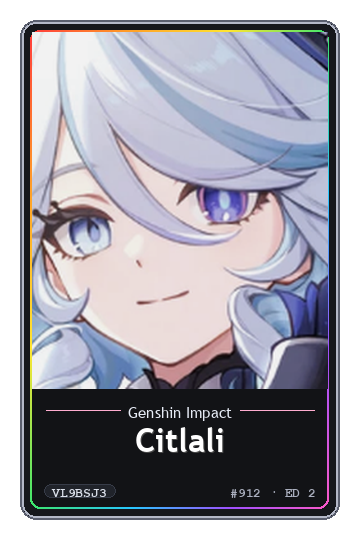
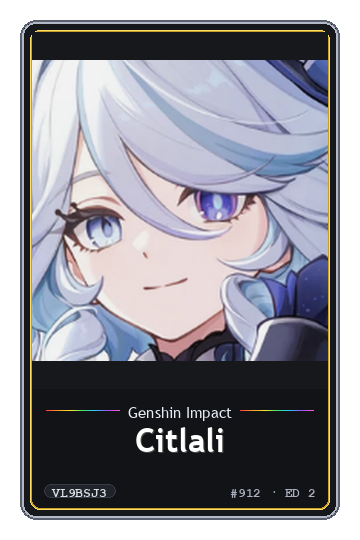
Apply rarity color accents (rainbow for Mythic) specifically to series divider lines

diff --git a/utils/renderer.py b/utils/renderer.py
@@ -89,19 +89,24 @@ async def fetch_image(session, url):
     return img
 
 def fit_artwork_image(img: Image.Image, target_w: int, target_h: int) -> Image.Image:
-    """Scales artwork image proportionally top-aligned so it fills the viewport edge-to-edge without distortion."""
+    """Scales character image proportionally without zooming in or cropping out character details."""
     orig_w, orig_h = img.size
     if orig_w == 0 or orig_h == 0:
         return img.resize((target_w, target_h), Image.Resampling.LANCZOS)
     
-    scale = max(target_w / orig_w, target_h / orig_h)
-    new_w = max(target_w, int(orig_w * scale))
-    new_h = max(target_h, int(orig_h * scale))
+    scale_w = target_w / orig_w
+    scale_h = target_h / orig_h
+    scale = min(scale_w, scale_h)
+    
+    new_w = max(1, int(orig_w * scale))
+    new_h = max(1, int(orig_h * scale))
     resized = img.resize((new_w, new_h), Image.Resampling.LANCZOS)
     
-    left = (new_w - target_w) // 2
-    top = 0
-    return resized.crop((left, top, left + target_w, top + target_h))
+    canvas = Image.new("RGBA", (target_w, target_h), (22, 24, 28, 255))
+    left = (target_w - new_w) // 2
+    top = (target_h - new_h) // 2
+    canvas.paste(resized, (left, top))
+    return canvas
 
 def _round_corners(img: Image.Image, radius: int) -> Image.Image:
     """Apply rounded corners to an RGBA image using an alpha mask."""
@@ -112,15 +117,12 @@ def _round_corners(img: Image.Image, radius: int) -> Image.Image:
     out.putalpha(mask)
     return out
 
-def _draw_rainbow_border(target_img: Image.Image, box: tuple, radius: int = 10, width: int = 2):
-    """Draws a vibrant linear rainbow gradient rounded border."""
+def _draw_rainbow_line(target_img: Image.Image, box: tuple):
+    """Draws a smooth rainbow gradient horizontal line."""
     bx1, by1, bx2, by2 = box
     w = max(1, bx2 - bx1)
     h = max(1, by2 - by1)
     
-    if w <= width * 2 or h <= width * 2:
-        return
-
     rainbow = Image.new("RGBA", (w, h))
     rb_draw = ImageDraw.Draw(rainbow)
     
@@ -135,44 +137,26 @@ def _draw_rainbow_border(target_img: Image.Image, box: tuple, radius: int = 10, 
     ]
     num_c = len(colors)
     
-    for row in range(h):
-        for col in range(w):
-            t = (row / max(1, h) + col / max(1, w)) / 2.0
-            idx = t * (num_c - 1)
-            i1 = int(idx) % num_c
-            i2 = min(i1 + 1, num_c - 1)
-            frac = idx - int(idx)
+    for col in range(w):
+        t = col / max(1, w - 1)
+        idx = t * (num_c - 1)
+        i1 = int(idx) % num_c
+        i2 = min(i1 + 1, num_c - 1)
+        frac = idx - int(idx)
+        
+        r = int(colors[i1][0] + (colors[i2][0] - colors[i1][0]) * frac)
+        g = int(colors[i1][1] + (colors[i2][1] - colors[i1][1]) * frac)
+        b = int(colors[i1][2] + (colors[i2][2] - colors[i1][2]) * frac)
+        rb_draw.line([(col, 0), (col, h)], fill=(r, g, b, 255))
             
-            r = int(colors[i1][0] + (colors[i2][0] - colors[i1][0]) * frac)
-            g = int(colors[i1][1] + (colors[i2][1] - colors[i1][1]) * frac)
-            b = int(colors[i1][2] + (colors[i2][2] - colors[i1][2]) * frac)
-            rb_draw.point((col, row), fill=(r, g, b, 255))
-            
-    # Mask to outline stroke
-    mask_outer = Image.new("L", (w, h), 0)
-    d_out = ImageDraw.Draw(mask_outer)
-    d_out.rounded_rectangle([0, 0, w - 1, h - 1], radius=radius, fill=255)
-    
-    mask_inner = Image.new("L", (w, h), 0)
-    d_in = ImageDraw.Draw(mask_inner)
-    in_rad = max(0, radius - width)
-    d_in.rounded_rectangle([width, width, w - 1 - width, h - 1 - width], radius=in_rad, fill=255)
-    
-    stroke_mask = Image.new("L", (w, h), 0)
-    for row in range(h):
-        for col in range(w):
-            val_out = mask_outer.getpixel((col, row))
-            val_in = mask_inner.getpixel((col, row))
-            stroke_mask.putpixel((col, row), max(0, val_out - val_in))
-            
-    target_img.paste(rainbow, (bx1, by1), stroke_mask)
+    target_img.paste(rainbow, (bx1, by1), rainbow)
 
 # ==========================================
 # 🖼 DRAW CARD (Exact Match to User Mockup)
 # ==========================================
 def draw_card_on_canvas(canvas: Image.Image, x: int, y: int, card_w: int, card_h: int,
                         raw_img: Image.Image, card_data: dict, font_title, font_series, font_badge):
-    """Draws a card matching mockup, featuring a dynamic rainbow gradient inner border for Mythic cards."""
+    """Draws a card with a clean gold inner border, where ONLY the series accent lines take the rarity color (e.g. Rainbow for Mythic)."""
     draw = ImageDraw.Draw(canvas)
     rarity_str = str(card_data.get("rarity", "Legendary")).lower()
 
@@ -192,23 +176,11 @@ def draw_card_on_canvas(canvas: Image.Image, x: int, y: int, card_w: int, card_h
     f_draw.rounded_rectangle([view_x, view_y, view_x + view_w - 1, view_y + view_h - 1],
                              radius=8, fill=(18, 19, 22))
 
-    # 2. Inner Viewport Accent Border (Rainbow for Mythic, Gold for Legendary, etc.)
-    is_mythic = "mythic" in rarity_str
-    if is_mythic:
-        _draw_rainbow_border(frame_img, (view_x - 2, view_y - 2, view_x + view_w + 1, view_y + view_h + 1), radius=10, width=2)
-        accent_line = (255, 160, 200, 220)
-    elif "legendary" in rarity_str or "legend" in rarity_str:
-        f_draw.rounded_rectangle([view_x - 2, view_y - 2, view_x + view_w + 1, view_y + view_h + 1],
-                                 radius=10, outline=(255, 220, 100), width=2)
-        accent_line = (180, 150, 60, 180)
-    elif "epic" in rarity_str:
-        f_draw.rounded_rectangle([view_x - 2, view_y - 2, view_x + view_w + 1, view_y + view_h + 1],
-                                 radius=10, outline=(190, 120, 255), width=2)
-        accent_line = (160, 80, 230, 180)
-    else:
-        f_draw.rounded_rectangle([view_x - 2, view_y - 2, view_x + view_w + 1, view_y + view_h + 1],
-                                 radius=10, outline=(110, 170, 255), width=2)
-        accent_line = (80, 140, 230, 180)
+    # Inner Gold Border (Clean gold accent border around viewport as in mockup)
+    f_draw.rounded_rectangle([view_x - 2, view_y - 2, view_x + view_w + 1, view_y + view_h + 1],
+                             radius=10, fill=(200, 160, 40), outline=(255, 220, 100), width=1)
+    f_draw.rounded_rectangle([view_x, view_y, view_x + view_w - 1, view_y + view_h - 1],
+                             radius=8, fill=(18, 19, 22))
 
     canvas.paste(frame_img, (x, y), frame_img)
 
@@ -217,7 +189,7 @@ def draw_card_on_canvas(canvas: Image.Image, x: int, y: int, card_w: int, card_h
     content_w = view_w
     content_h = view_h
 
-    # 3. Artwork Viewport (Occupies top ~75% of inner content box)
+    # 2. Artwork Viewport (Occupies top ~75% of inner content box, unzoomed)
     art_h = int(content_h * 0.75)
     fitted_art = fit_artwork_image(raw_img, content_w, art_h)
 
@@ -228,7 +200,7 @@ def draw_card_on_canvas(canvas: Image.Image, x: int, y: int, card_w: int, card_h
 
     canvas.paste(fitted_art, (content_x, content_y), art_mask)
 
-    # 4. Bottom Dark Container Section
+    # 3. Bottom Dark Container Section
     bot_y = content_y + art_h
 
     series_name = card_data.get("series", card_data.get("series_name", "Genshin Impact"))[:24]
@@ -244,14 +216,37 @@ def draw_card_on_canvas(canvas: Image.Image, x: int, y: int, card_w: int, card_h
     right_line_x1 = content_x + (content_w + s_tw) // 2 + 8
     right_line_x2 = content_x + content_w - margin
 
-    if left_line_x2 > left_line_x1:
-        draw.line([(left_line_x1, line_y), (left_line_x2, line_y)], fill=accent_line, width=1)
-    if right_line_x2 > right_line_x1:
-        draw.line([(right_line_x1, line_y), (right_line_x2, line_y)], fill=accent_line, width=1)
+    # 4. Series Divider Lines take the Rarity Color
+    is_mythic = "mythic" in rarity_str
+    if is_mythic:
+        # Rainbow Gradient Lines for Mythic
+        if left_line_x2 > left_line_x1:
+            _draw_rainbow_line(canvas, (left_line_x1, line_y, left_line_x2, line_y + 1))
+        if right_line_x2 > right_line_x1:
+            _draw_rainbow_line(canvas, (right_line_x1, line_y, right_line_x2, line_y + 1))
+    elif "legendary" in rarity_str or "legend" in rarity_str:
+        # Gold Line for Legendary
+        if left_line_x2 > left_line_x1:
+            draw.line([(left_line_x1, line_y), (left_line_x2, line_y)], fill=(255, 220, 100, 200), width=1)
+        if right_line_x2 > right_line_x1:
+            draw.line([(right_line_x1, line_y), (right_line_x2, line_y)], fill=(255, 220, 100, 200), width=1)
+    elif "epic" in rarity_str:
+        # Purple Line for Epic
+        if left_line_x2 > left_line_x1:
+            draw.line([(left_line_x1, line_y), (left_line_x2, line_y)], fill=(190, 120, 255, 200), width=1)
+        if right_line_x2 > right_line_x1:
+            draw.line([(right_line_x1, line_y), (right_line_x2, line_y)], fill=(190, 120, 255, 200), width=1)
+    else:
+        # Cyan Line for Rare/Common
+        if left_line_x2 > left_line_x1:
+            draw.line([(left_line_x1, line_y), (left_line_x2, line_y)], fill=(110, 170, 255, 200), width=1)
+        if right_line_x2 > right_line_x1:
+            draw.line([(right_line_x1, line_y), (right_line_x2, line_y)], fill=(110, 170, 255, 200), width=1)
 
     sx = content_x + (content_w - s_tw) // 2
     draw.text((sx, sy), series_name, fill=(230, 235, 245), font=font_series)
 
+    # Character Name (Prominent bold title centered below series name)
     char_name = card_data.get("name", card_data.get("character_name", "Citlali"))[:20]
     c_bbox = font_title.getbbox(char_name)
     c_tw = c_bbox[2] - c_bbox[0] if c_bbox else len(char_name) * 14

diff --git a/test_preview.py b/test_preview.py
@@ -5,10 +5,11 @@ from utils.renderer import render_cards_image, render_single_card, render_full_a
 import utils.renderer as renderer
 
 async def _mock_fetch(s, u):
+    # Test with unzoomed full character illustration
     p = "/Users/user/Desktop/coo-coo-bot/furina_portrait_card.png"
     if os.path.exists(p):
         img = Image.open(p).convert("RGBA")
-        # Crop pure character illustration (avoiding old card frame borders)
+        # Extract pure raw character image
         return img.crop((35, 65, img.width - 35, 340))
     
     img = Image.new("RGBA", (400, 600), (45, 55, 75, 255))
@@ -30,7 +31,7 @@ async def main():
     with open("/Users/user/Desktop/coo-coo-bot/preview_drop.png", "wb") as f:
         f.write(buf.read())
 
-    # Render Single Mythic Card
+    # Single Mythic Card Preview
     single_mythic = {
         "character_name": "Citlali", "series_name": "Genshin Impact", "rarity": "Mythic",
         "image_url": "citlali", "mint_number": 912, "edition": 2,
